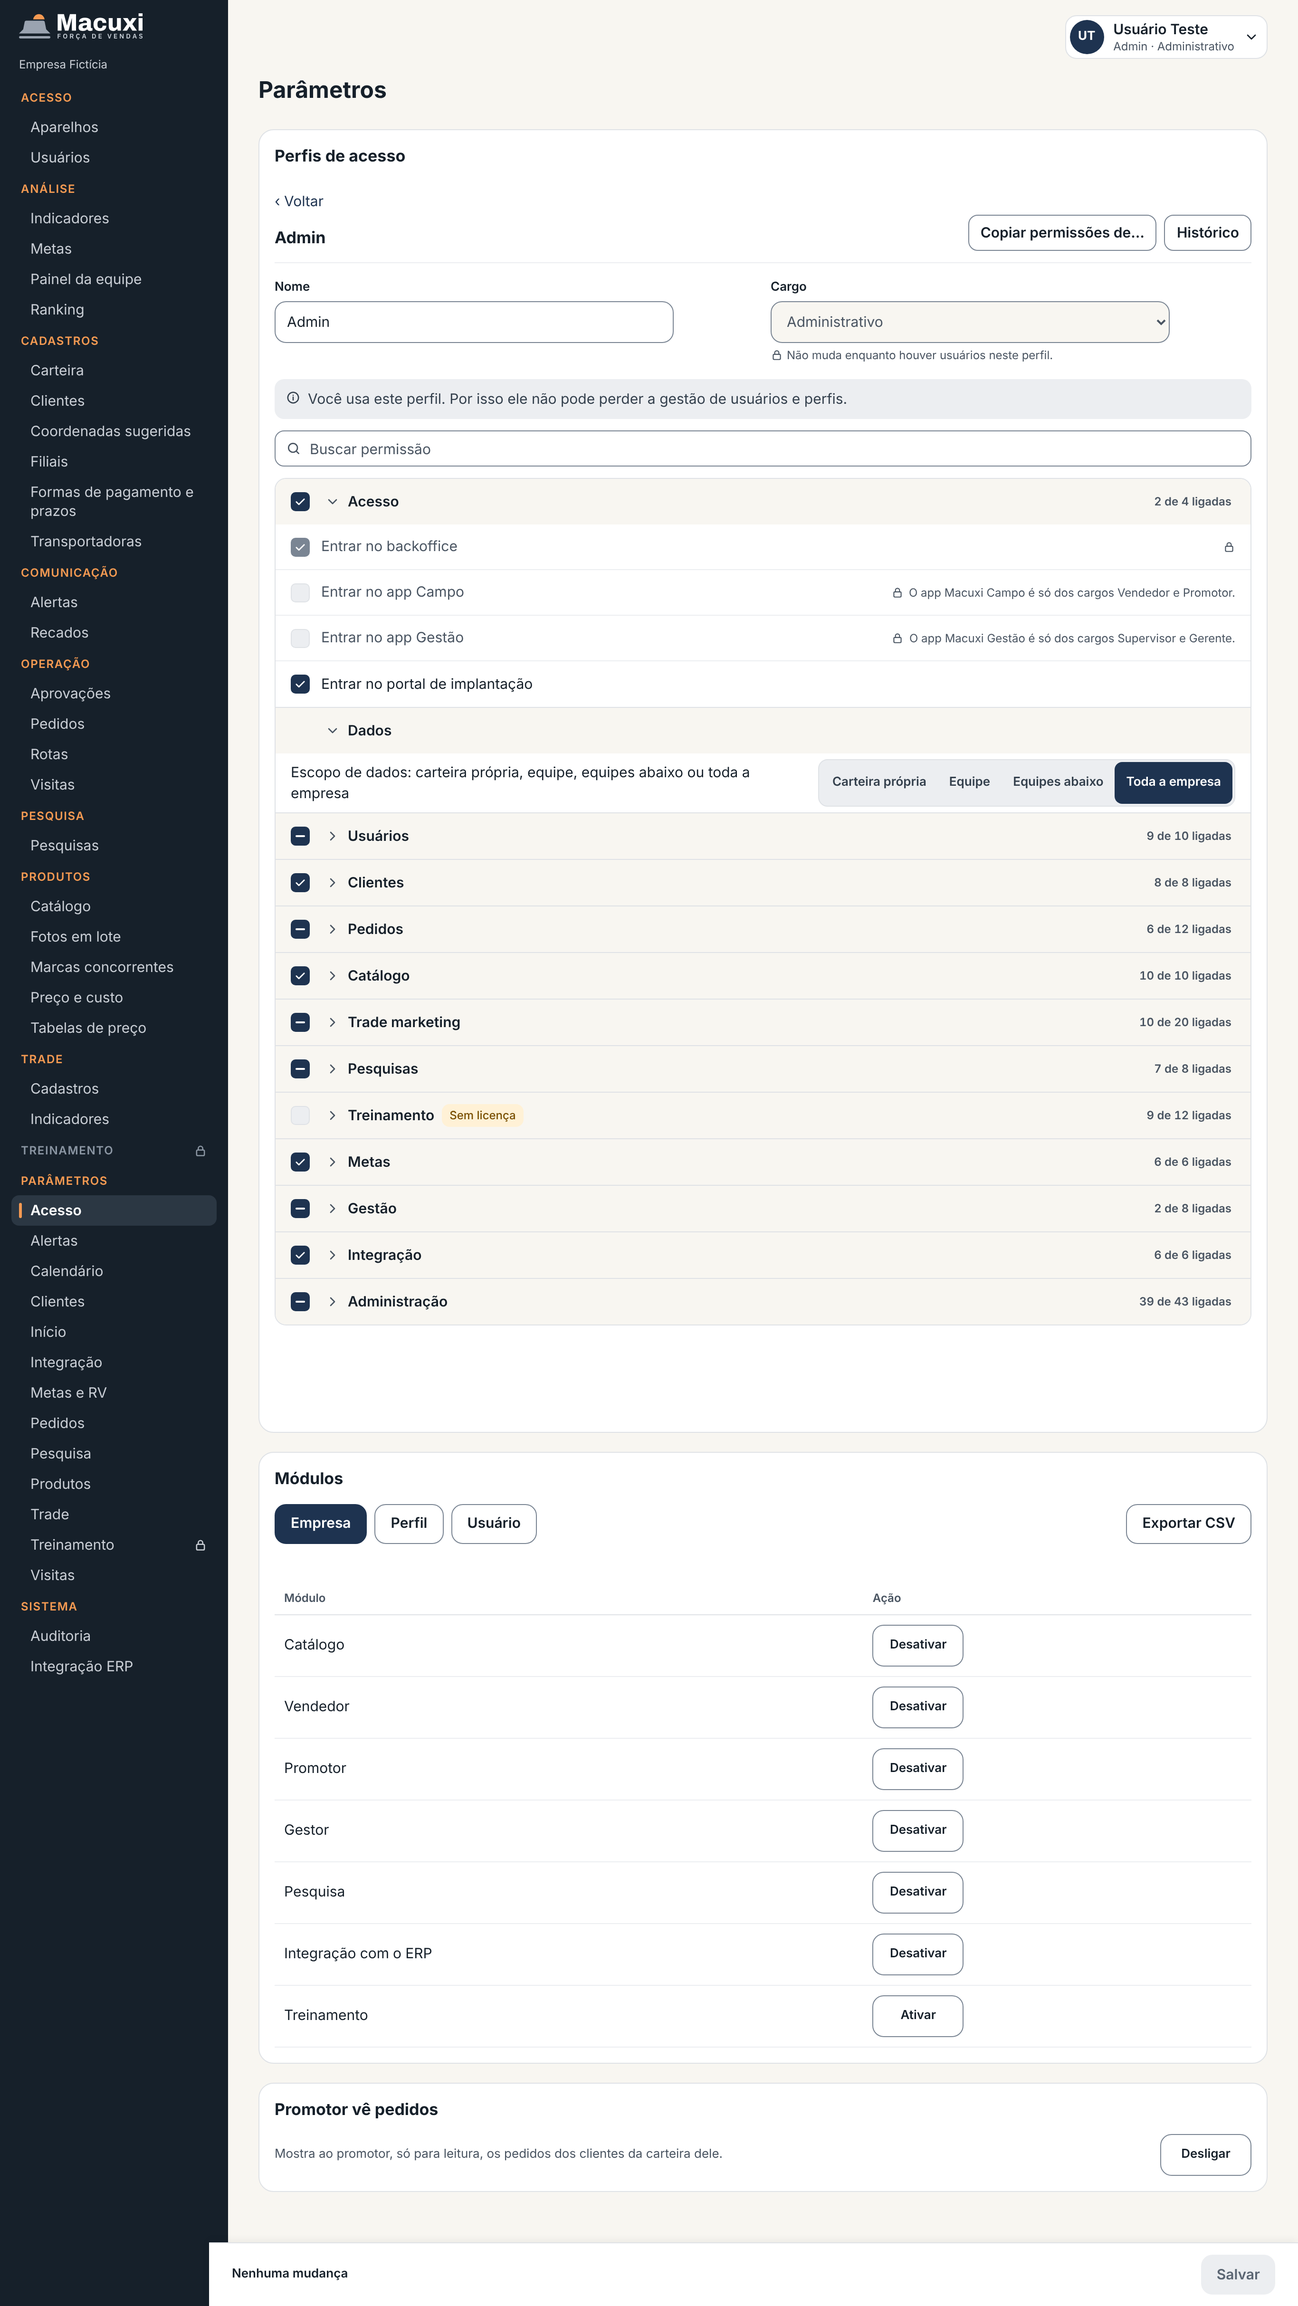
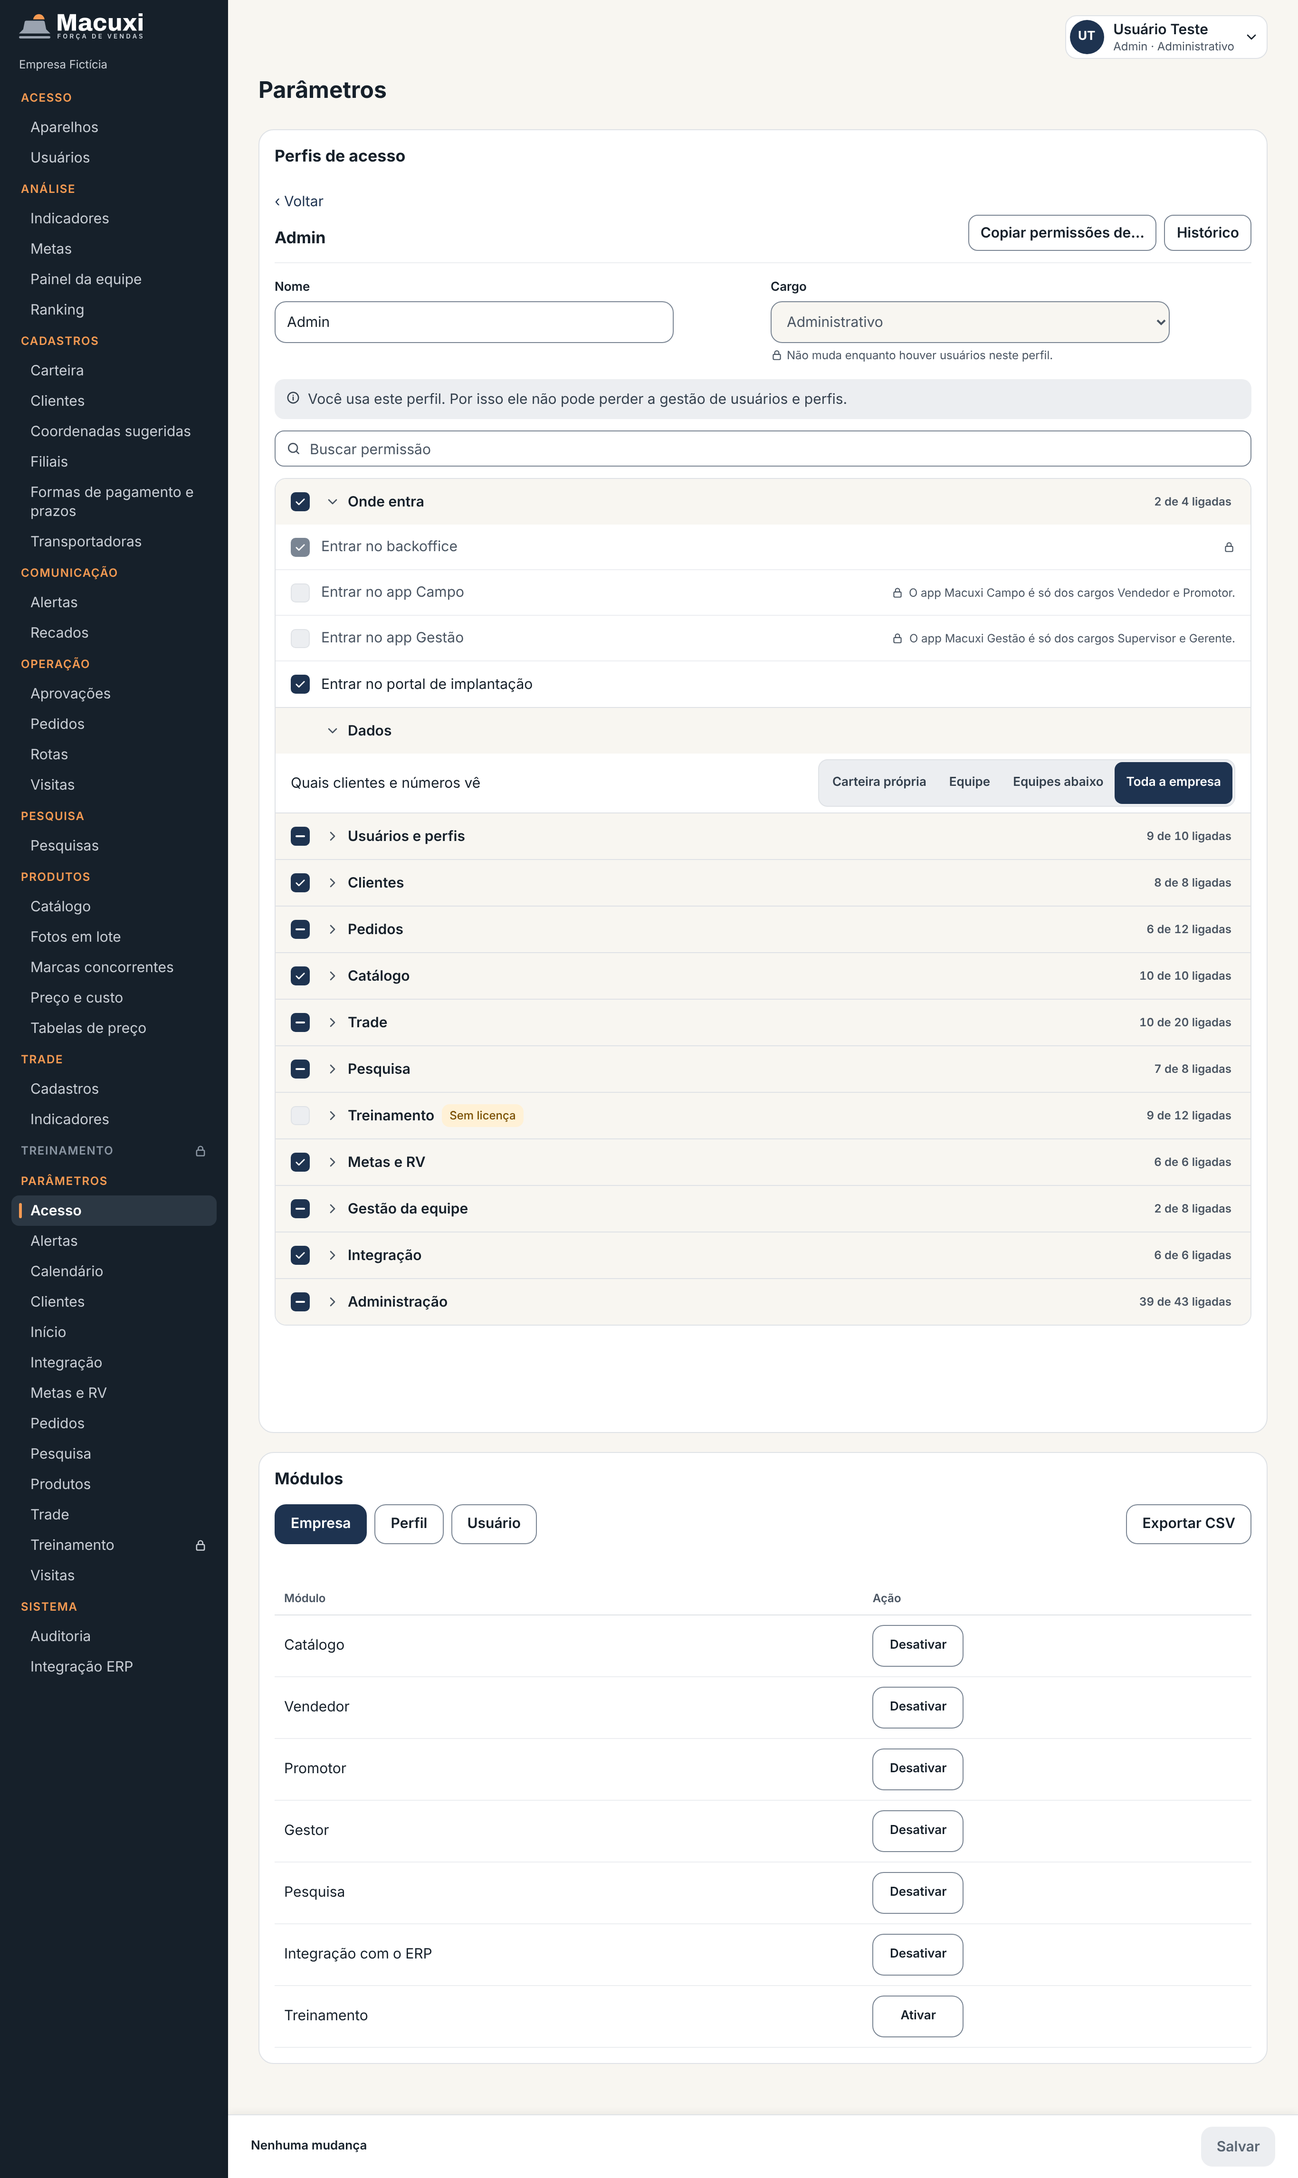
v1.0.40 · testes: parecer final da E5 dos perfis (#853 75a3813b, #854 183638eb)
Agente: testes

Claude-Session: https://claude.ai/code/session_01QvB2SQEC54iLCaCNvzvGaW

diff --git a/tests/e2e/bko/prints-perfis-v1040.ts b/tests/e2e/bko/prints-perfis-v1040.ts
@@ -20,7 +20,7 @@ import { manifest as promotorM } from '@macuxi/promotor/manifest';
 import { manifest as treinamentoM } from '@macuxi/treinamento/manifest';
 import { manifest as vendedorM } from '@macuxi/vendedor/manifest';
 import { CATALOGO_PERMISSOES_VERSAO, catalogoDePermissoes, MODELOS_PERFIL, modelosDePerfil, type ModuloId } from '@macuxi/platform-sdk';
-import { montarCatalogoPorArea, montarDetalheV2, ondeEntraPeloCargo } from '../../../modules/core/domain/perfis-cargo';
+import { ehAutogestao, montarCatalogoPorArea, montarDetalheV2, ondeEntraPeloCargo } from '../../../modules/core/domain/perfis-cargo';
 
 const BKO = process.env.MACUXI_BKO_URL ?? 'http://localhost:3000';
 const SAIDA = process.argv[2] ?? 'prints-perfis-v1040';
@@ -38,7 +38,7 @@ const ATUALIZADO = '2026-11-27T12:00:00.000Z';
 const resposta = {
   catalogo: montarCatalogoPorArea(catalogo, licencas, CATALOGO_PERMISSOES_VERSAO),
   lista: {
-    itens: MODELOS_PERFIL.map((m) => ({ codigo: m, nome: NOMES[m]!, descricao: null, cargo: modelos[m].cargo, ativo: true, usuarios: USUARIOS[m]!, onde_entra: ondeEntraPeloCargo(modelos[m].cargo, modelos[m].permissoes) })),
+    itens: MODELOS_PERFIL.map((m) => ({ codigo: m, nome: NOMES[m]!, descricao: null, cargo: modelos[m].cargo, ativo: true, usuarios: USUARIOS[m]!, onde_entra: ondeEntraPeloCargo(modelos[m].cargo, modelos[m].permissoes), autogestao: ehAutogestao(m, modelos[m].permissoes, 'admin') })),
   },
   detalhe: (codigo: (typeof MODELOS_PERFIL)[number]) =>
     montarDetalheV2({
@@ -54,6 +54,7 @@ const resposta = {
       licencas,
       perfisAtivos: MODELOS_PERFIL.map((m) => ({ codigo: m, nome: NOMES[m]!, cargo: modelos[m].cargo, permissoes: modelos[m].permissoes })),
       modulos: CONTRATADOS,
+      perfilDoLogado: 'admin',
     }),
 };
 

diff --git a/docs/testes/v1040-perfis-e5.md b/docs/testes/v1040-perfis-e5.md
@@ -1,66 +1,69 @@
-# v1.0.40 · Perfis em tabela (ADR 0073, E5) — parecer do testes
+# v1.0.40 · Perfis em tabela (ADR 0073, E5) — parecer final do testes
 
-Data: 27/11/2026 (horário de Manaus). Base: simulação aprovada `docs/design/simulacoes/2026-11-24/perfis-tabela.md` (e PNGs) e ADR 0073.
+Data: 27/11/2026, 09h35 (Manaus). Base: simulação aprovada `docs/design/simulacoes/2026-11-24/perfis-tabela.md` e ADR 0073.
 
 | PR | Dono | Branch | Head conferido |
 |---|---|---|---|
-| #853 (kit) | designer-ux | `nuvem/v1040-designer-ux-perfis` | `9da501535a84a67aa554d1637c7f96b6a47768e4` |
-| #854 (tela, empilhado no #853) | modulo-core | `nuvem/v1040-modulo-core-perfis` | `908fc0c19965011ea2799fd0505bb99541bbaffd` |
+| #853 (kit) | designer-ux | `nuvem/v1040-designer-ux-perfis` | `75a3813bc7f25ac87795ac95819140486013ab9c` |
+| #854 (tela, rotas V2 e 0109) | modulo-core | `nuvem/v1040-modulo-core-perfis` | `183638eb8990351d6795a44291002402b7147b77` |
+
+O 183638eb contém o 75a3813b, e o #854 não muda `packages/` além do que o #853 traz.
 
 ## Parecer
-- **#853 @ 9da50153: LIBERADO.** Nenhum achado no kit.
-- **#854 @ 908fc0c1: NÃO LIBERADO.** Achado A1 (alta) segura; A2 e A3 (média) entram no mesmo lote.
+- **#853 @ 75a3813b: LIBERADO.** Nenhum achado.
+- **#854 @ 183638eb: LIBERADO.** Os achados A1 a A5 do parecer anterior (908fc0c1) estão resolvidos. Não há achado novo.
 
-A integração com a API real fica para a **E6**: a tela chama as rotas V2 (`rotasDePerfisV2`, `modules/core/api/perfis-v2.ts`), que ainda não estão montadas no servidor. Isso não conta como achado da tela.
-
-## O que rodou (no head 908fc0c1, que contém o 9da50153)
+## O que rodou (no head 183638eb)
 | Pacote | Comando | Resultado |
 |---|---|---|
 | @macuxi/ui | `vitest run` | 59 arquivos, 661 testes, verdes |
 | @macuxi/ui | `pnpm typecheck` (web e mobile) | limpo |
-| @macuxi/core (web e domain) | `vitest run web domain` | 140 arquivos, 1907 testes, verdes (os `*.db.test.ts` não entram neste recorte) |
-| @macuxi/core | `pnpm typecheck` (api, web, mobile) | limpo |
-| BKO no navegador | `tests/e2e/bko/prints-perfis-v1040.ts` (Chromium, API simulada) | prints, valor × regra e checagens abaixo |
+| @macuxi/core | `pnpm typecheck` (api, web e mobile) | limpo |
+| @macuxi/core web e domain | `vitest run web domain` (Node 22) | verdes |
+| @macuxi/core api, com Postgres local (`db/scripts/pg-local.sh --env`, Node 24.22 de `/opt/node24`) | `vitest run api` | 105 arquivos, 1123 testes: 1122 verdes. `perfis-v2.db.test.ts` com 36 testes verdes, `perfis-v2.test.ts`, `promotor-pedidos.db.test.ts` e `promotor-historico.db.test.ts` verdes |
+| BKO no navegador | `tests/e2e/bko/prints-perfis-v1040.ts` (Chromium de `/opt/pw-browsers`, Next em dev) | sem divergências |
 
-**As respostas da API nos prints e nas checagens do navegador são simuladas** (`page.route`). Elas saem das funções reais do domain (`montarCatalogoPorArea`, `montarDetalheV2`), com o catálogo dos 8 manifestos (`catalogoDePermissoes`, `AREAS_PERMISSAO`), os 7 modelos do SDK (`modelosDePerfil`) e o `FORA_DA_TELA` da API. Como na simulação aprovada, o Treinamento fica sem licença e o restante licenciado. O usuário logado usa o perfil `admin`.
+- Com o Node 22 da sessão, 97 testes da API caem só por falta de `crypto.argon2` (autenticação, credencial, senha e usuários). Isso não é achado. Com o Node 24 eles passam.
+- Um teste caiu na suíte completa: `api/vinculo-erp.db.test.ts` (RN-CORE-58, linha 197). Rodando só esse arquivo, os 9 testes passam. O #854 não toca o vínculo com o ERP, então isso não é achado deste lote. Fica registrado como teste instável na suíte paralela.
 
 ## Critério → teste → resultado
 | Critério | Teste | Resultado |
 |---|---|---|
-| Trava pelo cargo com o motivo, sem código de RN | `perfis-tabela.test.ts` (RN-CORE-33); navegador: motivos "Este cargo nunca entra no BKO nem no portal.", "O app Macuxi Gestão é só dos cargos Supervisor e Gerente."; nenhum "RN-" na página | ✅ |
-| Cargo travado quando o perfil tem usuários | `perfis-tabela.test.ts`; print Vendedor (2 usuários): select desabilitado com cadeado e "Não muda enquanto houver usuários neste perfil."; o PUT não leva `cargo` | ✅ |
-| Módulo sem licença desabilitado, guardando o valor | `perfis-tabela.test.ts` (RN-CORE-02: o PUT leva `treinamento.ver`); navegador: caixa do grupo `aria-disabled`, selo "Sem licença", "4 de 12 ligadas" (valores guardados); a API aceita o valor guardado (`antes` em `validarAcessoPeloCargo`) | ✅ |
-| Aviso de autogestão uma vez só, no topo | print Admin: um aviso no topo; as 5 linhas com cadeado sem texto repetido | ✅ |
-| Caixa do grupo com 3 estados, só nas livres | `tabela-permissoes.test.ts`; navegador: Clientes `mixed` 1 de 8 → `true` 8 de 8 ("7 mudanças não salvas"); Acesso com 3 travadas só mexe em "Entrar no app Campo"; Treinamento sem efeito | ✅ |
-| Escopo acima do teto do cargo com cadeado | print Vendedor: Equipe, Equipes abaixo e Toda a empresa com cadeado e desabilitados | ✅ (ver A3: o motivo não aparece escrito) |
-| RN-PRO-01: perfil promotor nunca cria nem altera pedido | navegador, perfil Promotor: `pedido.criar`, `editar`, `cancelar`, `excluir`, `aprovar`, `criar_em_nome` travados com "Perfil de promotor nunca cria, edita, cancela, exclui ou aprova pedido."; `pedido.ver` livre; o PUT não leva chave travada | ✅ |
-| Só quem tem `perfil.gerir` edita | leitura: `PerfisConteudo` mostra o aviso sem `usePode('perfil.gerir')`; 403 no GET/PUT vira o mesmo aviso; as rotas V2 exigem `perfil.gerir` | ✅ (no navegador fica para a E6, com a API real) |
-| Busca | `tabela-permissoes.test.ts` (sem acento); navegador: "transportadora" → só as 2 linhas de Pedidos; "zzz" → "Nenhuma permissão com esse nome." | ✅ |
-| Salvar como único botão principal | navegador: os botões `bg-accent` da edição são só ["Salvar"] (Vendedor e Admin) | ✅ |
-| Sem "Perfil base", "Restaurar padrão" e "Promotor vê pedidos" | busca de texto na página | ❌ **A1**: "Promotor vê pedidos" continua na página |
+| Trava pelo cargo com o motivo, sem código de RN | `perfis-tabela.test.ts` (RN-CORE-33). No navegador aparecem os motivos e não há "RN-" na página | ✅ |
+| Cargo travado quando o perfil tem usuários | `perfis-tabela.test.ts`. Nos prints, o cadeado aparece com "Não muda enquanto houver usuários neste perfil.". Na API, o db.test cobre o 422 `CARGO_EM_USO` | ✅ |
+| Módulo sem licença desabilitado, guardando o valor | navegador: Treinamento com "Sem licença", a caixa sem efeito e "4 de 12 ligadas". db.test: 422 `PERMISSAO_SEM_LICENCA` e o valor guardado continua guardado (RN-CORE-02) | ✅ |
+| Aviso de autogestão uma vez só, no topo | print Admin: um aviso só, e as linhas travadas sem texto repetido. A API marca `autogestao` só no perfil de quem está logado (db.test) | ✅ |
+| Caixa do grupo com 3 estados, só nas linhas livres | navegador: Clientes vai de `mixed` 1 de 8 para `true` 8 de 8, com "7 mudanças não salvas". Em Onde entra, só a linha livre muda | ✅ |
+| Escopo acima do teto do cargo com cadeado e motivo | print Vendedor: cadeado em Equipe, Equipes abaixo e Toda a empresa, e o motivo escrito "O cargo Vendedor vai até "Carteira própria"." (A3 resolvido). API: 422 `ESCOPO_ACIMA_DO_CARGO` | ✅ |
+| RN-PRO-01: o promotor nunca cria nem altera pedido | navegador, perfil Promotor: `pedido.criar`, `editar`, `cancelar`, `excluir`, `aprovar` e `criar_em_nome` travados com "Perfil de promotor nunca cria, edita, cancela, exclui ou aprova pedido.", e `pedido.ver` livre. db.test: a API recusa com 422 `TRAVA_DO_PERFIL` (pelo corpo e pela cópia de outro cargo), e o banco recusa o insert direto (23514). Domain: `usuarioDaRequisicaoVePedidos` muda só a leitura | ✅ |
+| Só quem tem `perfil.gerir` edita | db.test: todas as rotas de gestão exigem `perfil.gerir`, e o vendedor não tem essa permissão. `perfis-tabela.test.ts`. A página mostra o aviso quando `usePode('perfil.gerir')` falha e no 403 | ✅ |
+| 422 com texto único | `MENSAGEM_PERFIS_NAO_MIGRADOS` existe só em `contracts/perfis.ts`. A API lança esse texto, e a tela o mostra pelo `frasesDaRecusa(details, message)`, sem texto próprio. db.test: POST, PUT e DELETE com o tenant em `legado` dão 422 `PERFIS_NAO_MIGRADOS` | ✅ |
+| Busca | navegador: "transportadora" mostra só as 2 linhas de Pedidos, e "zzz" mostra "Nenhuma permissão com esse nome." | ✅ |
+| Salvar como único botão principal | navegador: os botões principais são só ["Salvar"], no Vendedor e no Admin | ✅ |
+| Sem "Perfil base", "Restaurar padrão" e "Promotor vê pedidos" | busca de texto na página. O cartão saiu (A1 resolvido) | ✅ |
 
 ### Valor × regra: "n de m ligadas"
-Regra (kit, `contagemDoGrupo`, igual à simulação): n = chaves concedidas da área (livres, travadas e sem licença), m = chaves da área no catálogo; o grupo Dados (só nível) não tem contagem. O script calcula o esperado pela resposta e compara com a tela em todos os grupos dos perfis Vendedor e Admin: **sem divergência** (ex.: Vendedor Acesso 1 de 4, Pedidos 5 de 12, Treinamento 4 de 12; Admin Acesso 2 de 4, Administração 39 de 43). Rótulo × valor: "ligadas" conta concessões gravadas, e o selo "Sem licença" fica ao lado no grupo sem licença. Esta tela não tem data, fuso nem dinheiro; dia útil e virada de mês não se aplicam.
+Pela regra, n é o número de chaves concedidas da área (livres, travadas e sem licença) e m é o número de chaves da área no catálogo. O grupo Dados não tem contagem. O script calcula o esperado a partir da resposta e compara com a tela em todos os grupos do Vendedor e do Admin, e **não há divergência**. Exemplos: no Vendedor, Onde entra 1 de 4, Pedidos 5 de 12 e Treinamento 4 de 12; no Admin, Onde entra 2 de 4 e Administração 39 de 43. Rótulo × valor: "ligadas" conta as concessões gravadas. A tela não tem data, fuso nem dinheiro, então dia útil, virada de mês e fuso não se aplicam.
 
-## Achados
-| Id | Gravidade | Dono | Onde | O que |
-|---|---|---|---|---|
-| A1 | alta | modulo-core | `modules/core/web/index.ts:82` (`PromotorPedidosPanel`, seção `acesso`) | O cartão "Promotor vê pedidos" continua na mesma página, abaixo de Módulos. A simulação ("Sai o cartão") e a ADR §2.4 trocam o cartão pela linha "Ver pedidos" do perfil, que já aparece na tabela: hoje a mesma informação está em dois lugares. Reproduzir: abrir `/parametros/acesso?editar_perfil=vendedor` e rolar até o fim (print). |
-| A2 | média | modulo-core | `modules/core/web/lib/acesso.ts` (`ROTULO_DA_PERMISSAO` sem `dados.escopo`) | A linha de Dados mostra a descrição crua do catálogo, "Escopo de dados: carteira própria, equipe, equipes abaixo ou toda a empresa", que repete os 4 botões ao lado. A simulação aprovada usa "Quais clientes e números vê". |
-| A3 | média | modulo-core | `perfis-page.tsx` (`doKit`, `descricao` da linha de escopo) | O motivo do teto ("O cargo Vendedor vai até "Carteira própria".") só aparece se o nível gravado passar do teto, o que não acontece. Fica só para o leitor de tela. A simulação mostra o motivo escrito sob o nome da linha. |
-| A4 | baixa | modulo-core | `modules/core/domain/perfis-cargo.ts` (`ROTULO_AREA`, já no `main`) | Os títulos dos grupos não batem com a simulação: "Acesso" × "Onde entra", "Usuários" × "Usuários e perfis", "Trade marketing" × "Trade", "Pesquisas" × "Pesquisa", "Metas" × "Metas e RV", "Gestão" × "Gestão da equipe". |
-| A5 | baixa (já no `main`) | modulo-core | `perfis-page.tsx`, barra fixa `md:left-[220px]` | O menu lateral do BKO tem 240 px (`app-shell.tsx`), e a barra do Salvar cobre os últimos 20 px do menu no rodapé (print). |
+## Achados anteriores
+| Id | Situação no 183638eb |
+|---|---|
+| A1 (alta) cartão "Promotor vê pedidos" | resolvido: o painel saiu de `web/index.ts`, e a leitura passou para a chave `pedido.ver` |
+| A2 (média) rótulo de `dados.escopo` | resolvido: agora é "Quais clientes e números vê" |
+| A3 (média) motivo do teto escondido | resolvido: o motivo aparece escrito sob o nome da linha (print Vendedor) |
+| A4 (baixa) títulos dos grupos | resolvido: os títulos estão iguais aos da simulação |
+| A5 (baixa) barra sobre o menu | resolvido: `md:left-[240px]` |
 
-Observação, fora da E5: Clientes aparece com 8 chaves e a simulação mostra 15. Na ADR (anexo, marcadas com *), algumas ações do Core passam para Clientes, mas o catálogo do SDK ainda não as moveu (`areaDaAcao`, engenheiro-software). Não é defeito da tela.
+Nenhum achado novo.
 
-## Prints (1366 px, deviceScaleFactor 2, API simulada)
+## Prints (1366 px, deviceScaleFactor 2, head 183638eb)
 - `docs/testes/prints/v1040-perfis/perfis-vendedor-1366.png`
 - `docs/testes/prints/v1040-perfis/perfis-admin-1366.png`
 
-Captura com a janela do tamanho da página, para a barra do Salvar ficar no rodapé, onde o usuário a vê. O selo do modo dev do Next está escondido.
+**A API foi simulada** com `page.route`, porque o prazo não deu para subir a API com a demo. As respostas seguem o formato V2 real e saem das funções do domain no head 183638eb (`montarCatalogoPorArea` com `so_bko`, `montarDetalheV2` com `perfilDoLogado`, e `ehAutogestao` na lista), com o catálogo dos 8 manifestos e os 7 modelos do SDK. O Treinamento fica sem licença, e o usuário logado usa o perfil `admin`. As rotas V2 reais foram conferidas pelos 36 testes de `perfis-v2.db.test.ts`, com Postgres.
 
-## Para a E6 (API real), com roteiro manual
-1. Com a API montada, entrar como Admin, abrir Vendedor, ligar uma caixa livre, Salvar e conferir o toast e "Nenhuma mudança".
-2. Abrir em duas abas, salvar na primeira e depois na segunda: deve aparecer "Outra pessoa alterou este perfil…" com "Recarregar o perfil".
-3. Entrar com um perfil sem `perfil.gerir` e conferir o aviso no lugar da tela, e o 403 nas rotas.
-4. Desligar o Treinamento em Módulos, salvar um perfil e conferir que as concessões do Treinamento continuam gravadas.
+## Roteiro manual (API real)
+1. Entrar como Admin, abrir o Vendedor, ligar uma caixa livre e salvar. Conferir o toast e o "Nenhuma mudança".
+2. Abrir o mesmo perfil em duas abas e salvar nas duas. Deve aparecer "Outra pessoa alterou este perfil…".
+3. Entrar com um perfil sem `perfil.gerir` e conferir o aviso no lugar da tela.
+4. Com o tenant em `legado`, salvar e conferir que a tela mostra o texto único do 422.
